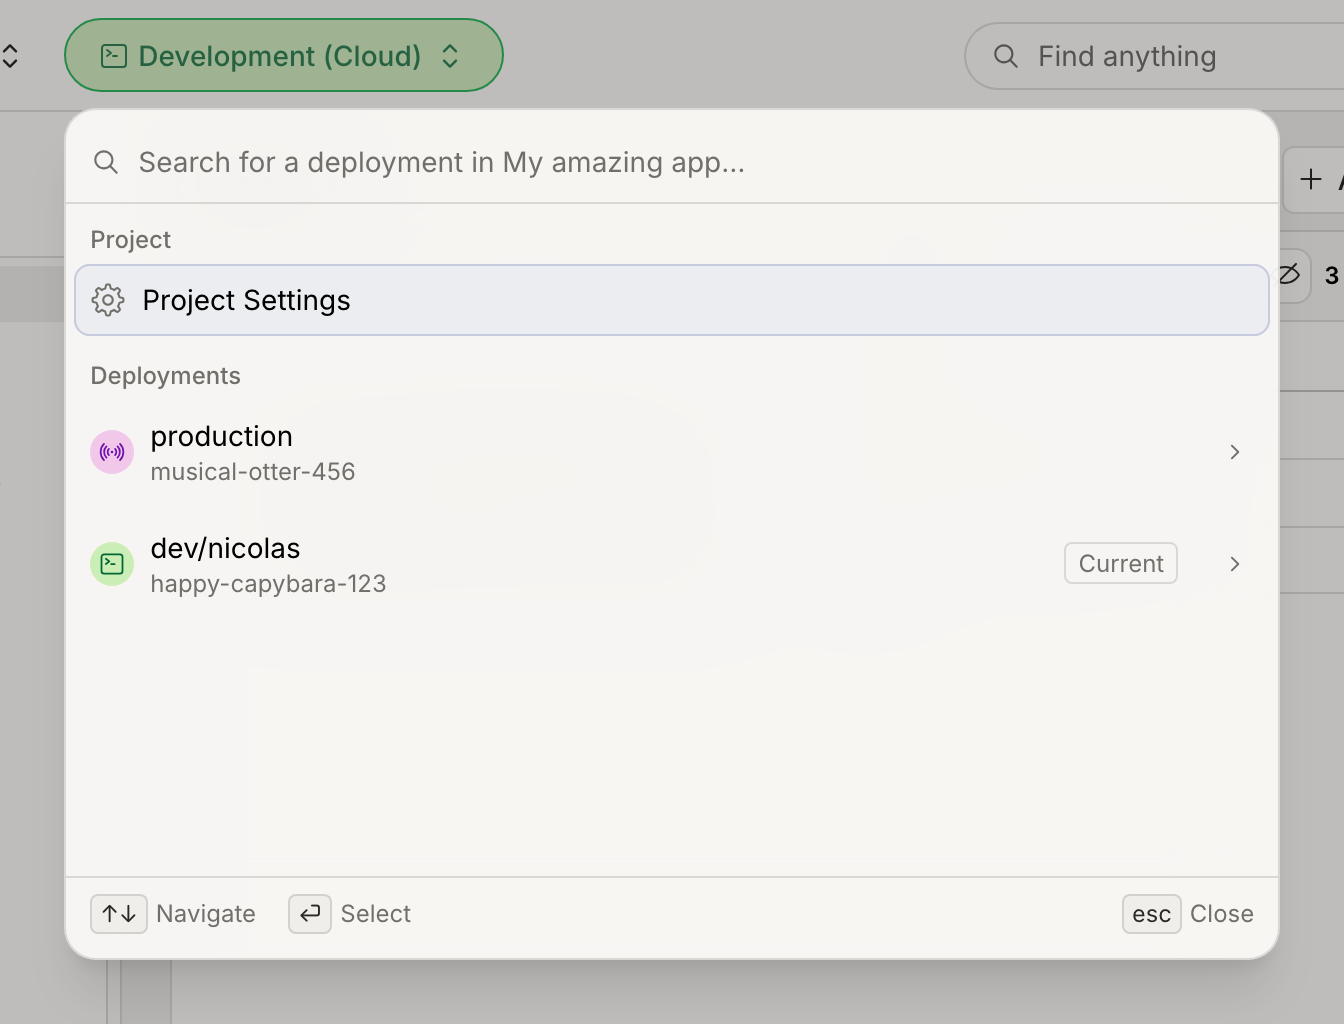
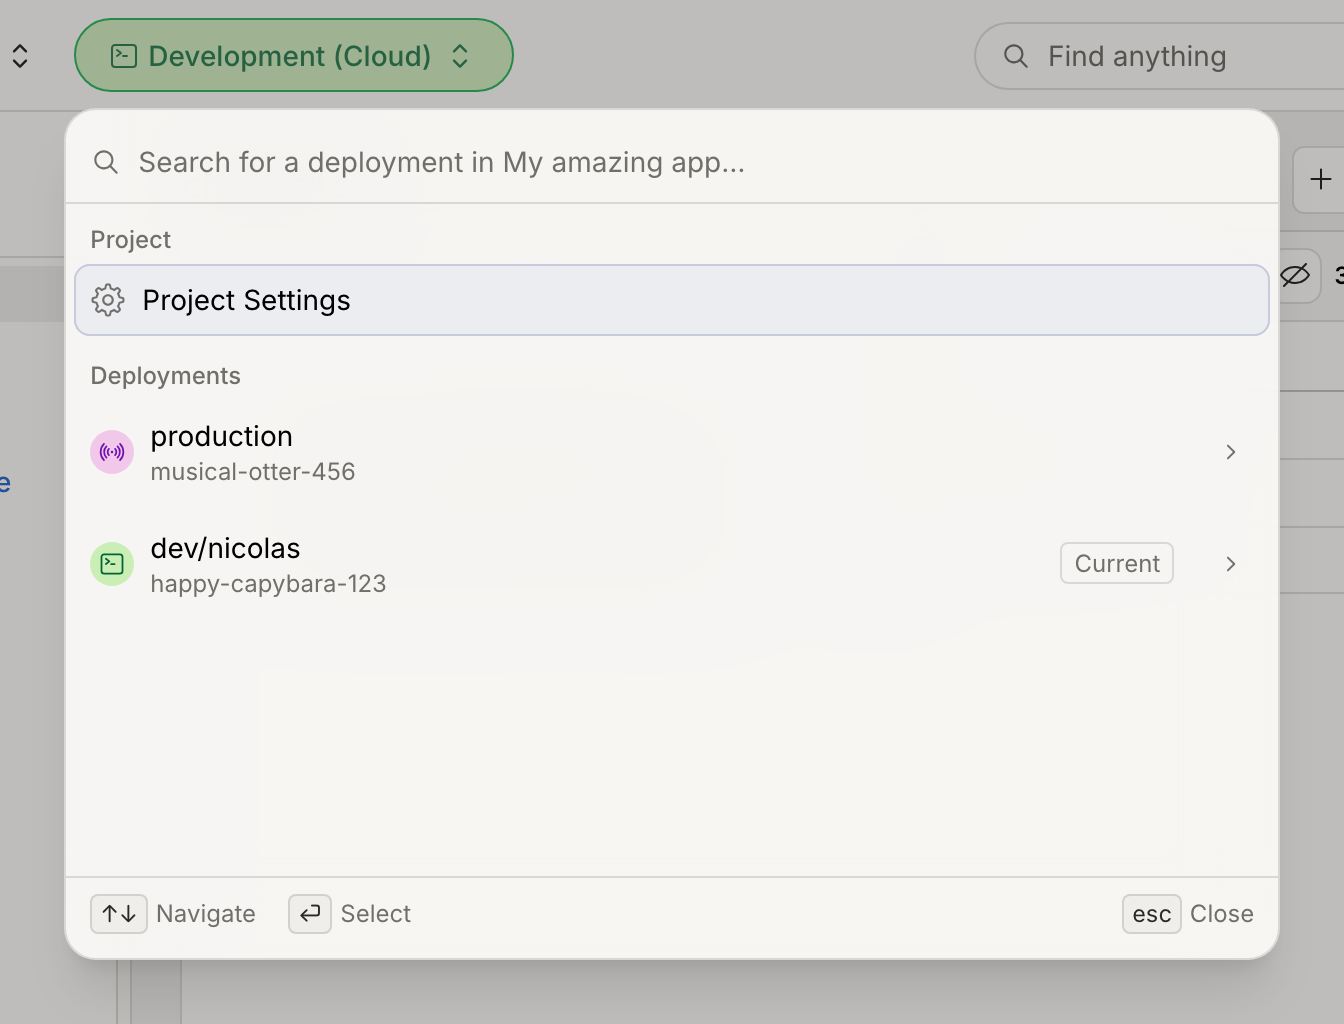
dashboard: Improve command palette “›” hover state (#61346)
GitOrigin-RevId: 8f8d06b667472825e8083c7c3e5a2c078019a1f6

diff --git a/npm-packages/dashboard/src/elements/styles/commandPalette.css b/npm-packages/dashboard/src/elements/styles/commandPalette.css
@@ -31,18 +31,27 @@
 }
 
 [cmdk-item] {
+  --item-fill: color-mix(
+    in srgb,
+    var(--accent) 9%,
+    var(--background-secondary)
+  );
+  --item-outline: color-mix(in srgb, var(--accent) 22%, transparent);
+  @variant dark {
+    --item-fill: var(--background-tertiary);
+    --item-outline: var(--border-transparent);
+  }
+
   @apply rounded-lg text-sm flex items-center gap-2 p-2 cursor-pointer;
 
-  &[data-selected="true"] {
-    @apply bg-[color-mix(in_srgb,var(--accent)_9%,var(--background-secondary))] shadow-[inset_0_0_0_1px_color-mix(in_srgb,var(--accent)_22%,transparent)] dark:bg-background-tertiary dark:shadow-[inset_0_0_0_1px_var(--border-transparent)];
+  &[data-selected="true"],
+  &:active {
+    background-color: var(--item-fill);
+    box-shadow: inset 0 0 0 1px var(--item-outline);
   }
 
   &[data-disabled="true"] {
     @apply text-content-tertiary cursor-not-allowed;
-  }
-
-  &:active {
-    @apply bg-[color-mix(in_srgb,var(--accent)_9%,var(--background-secondary))] shadow-[inset_0_0_0_1px_color-mix(in_srgb,var(--accent)_22%,transparent)] dark:bg-background-tertiary dark:shadow-[inset_0_0_0_1px_var(--border-transparent)];
   }
 
   & + [cmdk-item] {
@@ -86,7 +95,43 @@
 
   &[data-selected="true"] > [data-item-primary],
   & > [data-item-primary]:active {
-    @apply bg-[color-mix(in_srgb,var(--accent)_9%,var(--background-secondary))] shadow-[inset_0_0_0_1px_color-mix(in_srgb,var(--accent)_22%,transparent)] dark:bg-background-tertiary dark:shadow-[inset_0_0_0_1px_var(--border-transparent)];
+    background-color: var(--item-fill);
+    box-shadow: inset 0 0 0 1px var(--item-outline);
+  }
+}
+
+/* Rows with a drill button split into two halves that share the row's outline
+   and a straight separator, and the fill moves to the drill button while it's
+   hovered, so the shape stays the same whichever half a click would act on.
+   The row's outline is an `outline` rather than an inset shadow because it
+   paints above the halves' fills. */
+[cmdk-item]:has(> [data-drill-button]) {
+  &[data-selected="true"],
+  &:active {
+    box-shadow: none;
+    outline: 1px solid var(--item-outline);
+    outline-offset: -1px;
+  }
+
+  & > [data-item-primary] {
+    @apply rounded-r-none;
+  }
+
+  &[data-selected="true"] > [data-item-primary],
+  & > [data-item-primary]:active {
+    box-shadow: none;
+  }
+
+  &[data-selected="true"] > [data-drill-button] {
+    box-shadow: inset 1px 0 0 var(--item-outline);
+  }
+
+  & > [data-drill-button]:hover {
+    background-color: var(--item-fill);
+  }
+
+  &:has(> [data-drill-button]:hover) > [data-item-primary] {
+    background-color: transparent;
   }
 }
 

diff --git a/npm-packages/dashboard/src/elements/CommandPalette/items.tsx b/npm-packages/dashboard/src/elements/CommandPalette/items.tsx
@@ -379,17 +379,14 @@ function DrillButton({ onDrill }: { onDrill: () => void }) {
     <Button
       variant="unstyled"
       aria-label="Browse"
+      data-drill-button=""
       tip={
         <span className="flex items-center gap-1">
           Browse
           <KeyboardShortcut value={["Right"]} className={KEYCAP_CLASSES} />
         </span>
       }
-      className={cn(
-        "mr-1 ml-1.5 shrink-0 rounded-lg p-1.5 text-content-tertiary",
-        "hover:bg-background-secondary hover:text-content-primary",
-        "dark:hover:bg-background-tertiary",
-      )}
+      className="flex shrink-0 items-center self-stretch rounded-r-lg px-3 text-content-tertiary hover:text-content-primary"
       onClick={(e) => {
         e.preventDefault();
         e.stopPropagation();
